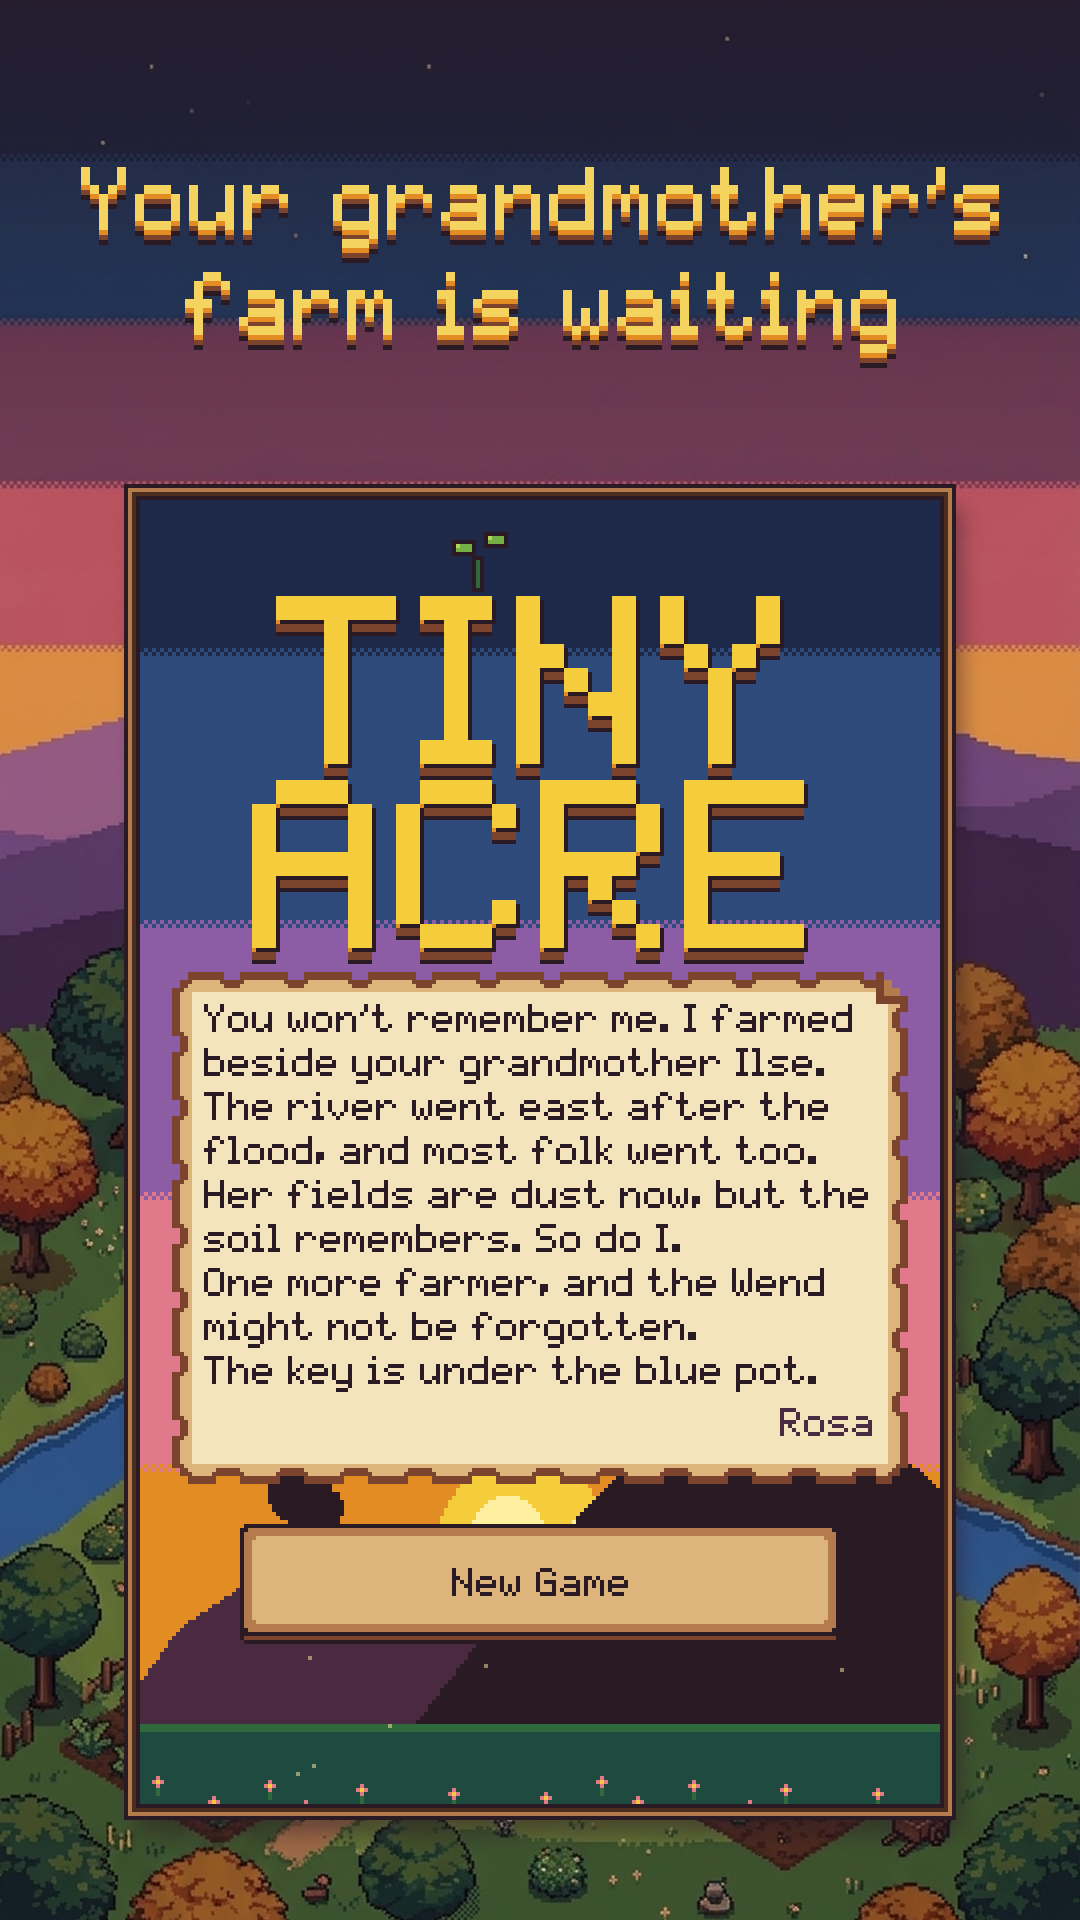
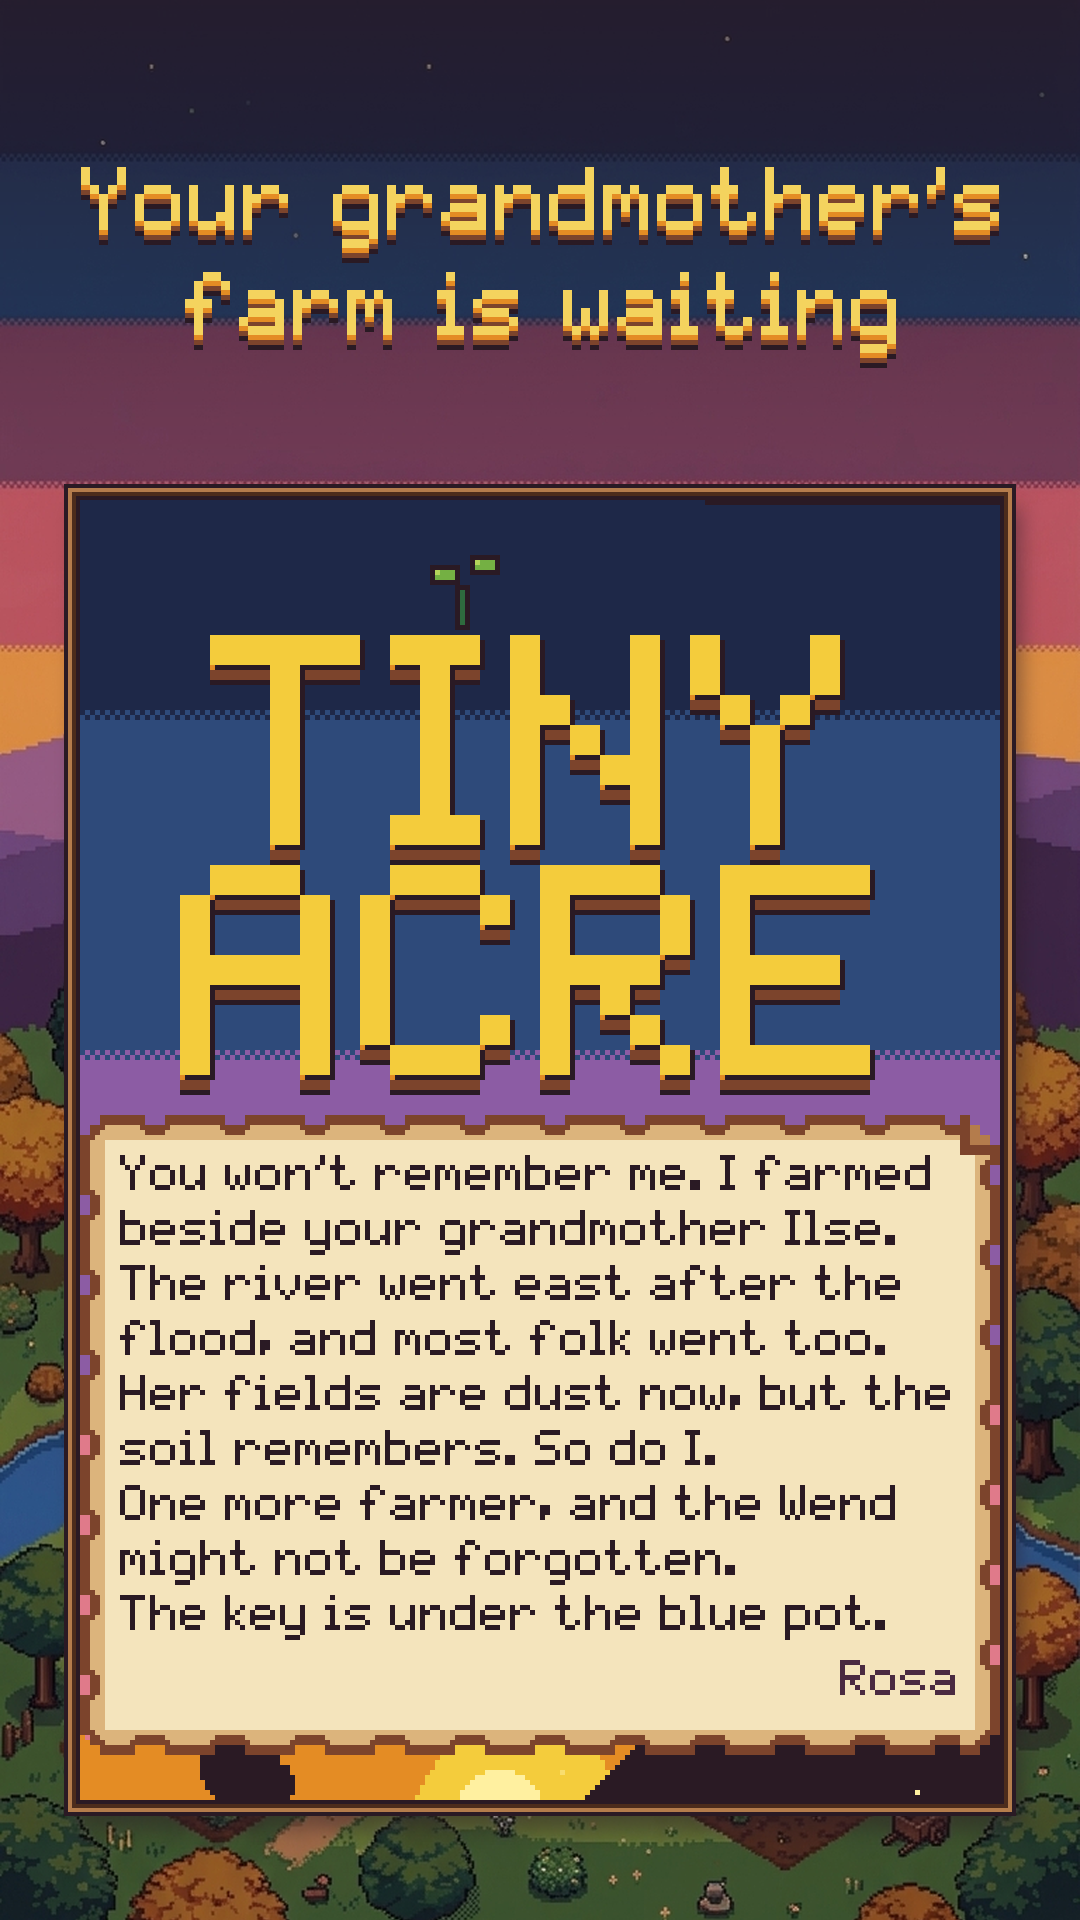
Store set round 3 (critic review 5): captions the panels keep, closer crops, the critic's order
- R1: 03 is the river running through the restored town at golden hour; the families shot is HOME AGAIN with
  Senna at her door; the field is captioned "Your fields, at your own pace".
- R2: the letter and the homecoming at a whole 5x, the scaffold at 8x.
- R3: hero, letter, homecoming, river, field, rebuild, one hand. R4: "house by house".
- The video's family beat is the homecoming with its banner. BRIEF.md and the README follow.

diff --git a/farm-game/art-src/tools/store_art.py b/farm-game/art-src/tools/store_art.py
@@ -33,20 +33,23 @@ CREAM = (244, 234, 210)
 
 # The story set (store/BRIEF.md): the store order, the raw capture(s) each frame uses, and its caption.
 STORY = [
-    ('hero', ('hero-dry', 'hero-green'),
+    ('hero', ('hero-dry', 'hero-green'), None,
      {'en': 'Bring a fading valley back to life', 'pt-BR': 'Faça o vale florescer de novo'}),
-    ('letter', ('letter',),
+    # the logo and the letter at 5x (game px 8-192 x 25-285)
+    ('letter', ('letter-5x',), (40, 125, 960, 1425),
      {'en': "Your grandmother's farm is waiting", 'pt-BR': 'A fazenda da sua avó te espera'}),
-    ('river', ('river-clean',),
-     {'en': 'The river finds its way home', 'pt-BR': 'O rio encontra o caminho de casa'}),
-    ('people', ('people',),
+    # HOME AGAIN, Senna at her door, Mara at the store, at 5x (game px 8-192 x 74-334)
+    ('homecoming', ('homecoming-5x',), (40, 370, 960, 1670),
      {'en': 'Rebuild homes. Welcome families back', 'pt-BR': 'Reerga as casas. Receba quem volta'}),
-    ('cozy', ('cozy',),
-     {'en': 'Grow, cook, fish at your own pace', 'pt-BR': 'Plante, cozinhe e pesque sem pressa'}),
-    ('hand', ('hand',),
+    ('river', ('river-town',), None,
+     {'en': 'The river finds its way home', 'pt-BR': 'O rio encontra o caminho de casa'}),
+    ('field', ('cozy',), None,
+     {'en': 'Your fields, at your own pace', 'pt-BR': 'Sua roça, no seu ritmo'}),
+    # the Marls' house in scaffolding at 8x (game px 75-175 of the world view)
+    ('rebuild', ('rebuild-8x',), (600, 0, 1400, 1304),
+     {'en': 'Rebuild the town, house by house', 'pt-BR': 'Reerga a vila, casa por casa'}),
+    ('hand', ('hand',), None,
      {'en': 'Made for one hand', 'pt-BR': 'Feito para jogar com uma mão'}),
-    ('rebuild', ('rebuild',),
-     {'en': 'Rebuild the town, log by log', 'pt-BR': 'Reerga a vila, tronco a tronco'}),
 ]
 FLOW = os.path.join(os.path.dirname(RAW), 'flow-raw')
 FEATURE = {'en': 'The Dry Year', 'pt-BR': 'O Ano Seco'}
@@ -203,7 +206,7 @@ def fits(text, px, maxw):
 
 def story_px(locale):
     """One caption size for the whole set: the largest that sets every caption in at most two lines."""
-    return next((px for px in (12, 11, 10, 9) if all(fits(c[locale], px, W - 100) for _, _, c in STORY)), 9)
+    return next((px for px in (12, 11, 10, 9) if all(fits(c[locale], px, W - 100) for *_, c in STORY)), 9)
 
 
 def caption(img, text, px):
@@ -286,7 +289,7 @@ def phone(img, screen, at):
     img.paste(screen, (x, y))
 
 
-def story_shot(locale, name, raws, text, px):
+def story_shot(locale, name, raws, crop, text, px):
     img = backdrop()
     caption(img, text, px)
 
@@ -295,8 +298,6 @@ def story_shot(locale, name, raws, text, px):
 
     if name == 'hero':
         framed(img, split(load(raws[0]), load(raws[1])), PANEL_AT)
-    elif name == 'letter':
-        framed(img, load('letter').crop((0, 120, 800, 120 + PANEL[1])), PANEL_AT)
     elif name == 'hand':
         scr = load('hand')
         assert scr.size == (600, 1200), scr.size
@@ -305,7 +306,10 @@ def story_shot(locale, name, raws, text, px):
         # the Action button's centre is about (165, 344) game px: 3x, from the screen's corner
         thumb(img, (at[0] + 165 * 3 + 6, at[1] + 344 * 3 + 30))
     else:
-        framed(img, load(raws[0]), PANEL_AT)
+        panel = load(raws[0])
+        if crop:
+            panel = panel.crop(crop)
+        framed(img, panel, ((W - panel.width) // 2, PANEL_AT[1]))
     return img
 
 
@@ -317,9 +321,9 @@ def shots():
         for f in os.listdir(out):
             os.remove(os.path.join(out, f))
         px = story_px(locale)
-        for i, (name, raws, caps) in enumerate(STORY, 1):
+        for i, (name, raws, crop, caps) in enumerate(STORY, 1):
             p = os.path.join(out, f'{i:02d}-{name}.png')
-            story_shot(locale, name, raws, caps[locale], px).save(p, optimize=True)
+            story_shot(locale, name, raws, crop, caps[locale], px).save(p, optimize=True)
             paths.append(p)
     return paths
 
@@ -370,7 +374,7 @@ def sheet():
     tw, th = 216, 384
     img = Image.new('RGB', (cols * (tw + 8) + 8, 2 * (th + 8) + 8 + 280), INK)
     for r, locale in enumerate(('en', 'pt-BR')):
-        for c, (name, _, _) in enumerate(STORY):
+        for c, (name, *_) in enumerate(STORY):
             s = Image.open(os.path.join(OUT, 'screenshots', locale, f'{c + 1:02d}-{name}.png'))
             img.paste(s.resize((tw, th), Image.LANCZOS), (8 + c * (tw + 8), 8 + r * (th + 8)))
     y = 2 * (th + 8) + 8

diff --git a/farm-game/art-src/tools/store_video.py b/farm-game/art-src/tools/store_video.py
@@ -34,9 +34,9 @@ BEATS = [
     ('green-clean', 0, 104, 'Bring a fading valley back to life', [('green', 0.25)], None),
     ('letter', 0, 89, "Your grandmother's farm is waiting", [], TITLE_CROP),
     ('river-clean', 0, 104, 'The river finds its way home', [('green', 0.2)], None),
-    ('people', 10, 109, 'Rebuild homes. Welcome families back', [('homecoming', 0.3)], None),
-    ('cozy', 10, 95, 'Grow, cook, fish at your own pace', [('swing', 0.33), ('harvest', 0.5)], None),
-    ('fishing', 60, 183, 'Grow, cook, fish at your own pace', [('ui', 0.1), ('harvest', 2.05)], SHEET_CROP),
+    ('senna', 0, 109, 'Rebuild homes. Welcome families back', [('homecoming', 0.0)], (0, 0, 800, 1304)),
+    ('cozy', 10, 95, 'Your fields, at your own pace', [('swing', 0.33), ('harvest', 0.5)], None),
+    ('fishing', 60, 183, 'Your fields, at your own pace', [('ui', 0.1), ('harvest', 2.05)], SHEET_CROP),
 ]
 # SOCIAL=1: the social-media trailer, which opens on an AI-generated (Google Flow, Veo 3.1) shot animated from a real
 # capture of the dry farm (frames in video/frames/veo-intro, 800x1600). Never used in the Play Store video.

diff --git a/farm-game/store/BRIEF.md b/farm-game/store/BRIEF.md
@@ -1,57 +1,70 @@
-# Store creative brief (round 2)
+# Store creative brief (round 3)
 
-**The pitch in one paragraph.** Tiny Acre is a promise of a feeling, not a list of chores: a fading, straw-coloured
-valley turns green again because you came home. The store page tells that as a short story arc. It opens on the
-promise, the same farm parched and then alive. Next comes the reason you're there: a letter from Rosa, your grandmother's friend.
-Then come the moments the valley heals (the river coming home), the people it brings back (Senna on the bank the
-evening her house is lit), and the cozy daily life you can live in five minutes with one thumb. Every frame is real
-gameplay from the build, lit at golden hour or dusk, with the HUD hidden where it adds nothing and the camera close
-enough that the characters read. The frames sit in painted key art in the game's own palette, under one big
-caption that sells an outcome. Towing appears only as an outcome (a house rising, log by log), never as "carry a
-log". Cozy games that sell well on Play (Stardew Valley, Spiritfarer, Cozy Grove, Alba) lead with a world and a
-feeling and let the first two screenshots carry the decision. We follow that structure only and copy none of their
-assets.
+**The pitch in one paragraph.** Tiny Acre sells a feeling, not a list of chores: a fading, straw-coloured valley
+turns green again because you came home. The store page tells that as a short story arc. It opens on the promise:
+the same farm parched, then alive. Next comes the reason you're there, a letter from Rosa, your grandmother's
+friend. After that, the people the valley brings back (Senna home at her door), the river it gets back, and the
+cozy daily life you can live in five minutes with one thumb. Every frame is real gameplay from the build, lit at
+golden hour where the game allows it. The HUD is hidden where it adds nothing, and the camera is close enough that
+the characters read in the Play carousel (5x or 8x on the people shots, always whole pixels). The frames sit in
+painted key art in the game's own palette, each under one big caption that sells an outcome. Towing never appears
+as "carry a log"; the town rises house by house. Cozy games that sell well on Play (Stardew Valley, Spiritfarer,
+Cozy Grove, Alba) lead with a world and a feeling and let the first two screenshots carry the decision. We follow
+that structure only and copy none of their assets.
 
 ## Screenshot arc and captions
 
-Captions run 3-6 words, sell feelings and outcomes, and use no chore verbs. The pt-BR captions are written to read
-naturally in Brazilian Portuguese, not translated word by word.
+Captions are 3-6 words. They sell feelings and outcomes, never chores, and every one promises only what its panel
+shows. The pt-BR captions are written to read naturally, not translated word by word.
 
-| #   | Moment (scenario)                                                                                                                                 | en                                   | pt-BR                               |
-| --- | ------------------------------------------------------------------------------------------------------------------------------------------------- | ------------------------------------ | ----------------------------------- |
-| 1   | Hero: the same farm parched at midday and green at golden hour, split by the game's dithered reveal edge (`farm-variant-dry`, `store-full-field`) | Bring a fading valley back to life   | Faça o vale florescer de novo       |
-| 2   | The call: Rosa's letter on the title, at a first launch (`title-first-launch`)                                                                    | Your grandmother's farm is waiting   | A fazenda da sua avó te espera      |
-| 3   | The transformation: the dry town dissolving into the river town the morning the weir opens (`river-first-morning`)                                | The river finds its way home         | O rio encontra o caminho de casa    |
-| 4   | People: dusk the first evening Senna is home, on the riverbank by the turning wheel, the lamps lit (`marls-home`)                                 | Rebuild homes. Welcome families back | Reerga as casas. Receba quem volta  |
-| 5   | Cozy life: a full field at golden hour (`store-full-field`)                                                                                       | Grow, cook, fish at your own pace    | Plante, cozinhe e pesque sem pressa |
-| 6   | One hand: the full screen, HUD and thumb controls, held in one hand (`store-full-field`)                                                          | Made for one hand                    | Feito para jogar com uma mão        |
-| 7   | Outcome: the Marls' house rising in scaffolding (`tow-house-marls`)                                                                               | Rebuild the town, log by log         | Reerga a vila, tronco a tronco      |
+1. **Hero.** The same farm parched at midday and green at golden hour, split by the game's dithered reveal edge
+   (`farm-variant-dry`, `store-full-field`).
+   - en: Bring a fading valley back to life
+   - pt-BR: Faça o vale florescer de novo
+2. **The call.** The logo and Rosa's letter at 5x, at a first launch (`title-first-launch`).
+   - en: Your grandmother's farm is waiting
+   - pt-BR: A fazenda da sua avó te espera
+3. **People.** HOME AGAIN, with Senna at her door the morning she comes home, at 5x (`marls-arrive`).
+   - en: Rebuild homes. Welcome families back
+   - pt-BR: Reerga as casas. Receba quem volta
+4. **The river.** The river running through the restored town at golden hour, the Heron afloat (`weir-opened-town`).
+   - en: The river finds its way home
+   - pt-BR: O rio encontra o caminho de casa
+5. **Cozy life.** A full field at golden hour (`store-full-field`).
+   - en: Your fields, at your own pace
+   - pt-BR: Sua roça, no seu ritmo
+6. **The town rising.** The Marls' house in scaffolding, at 8x (`tow-house-marls`).
+   - en: Rebuild the town, house by house
+   - pt-BR: Reerga a vila, casa por casa
+7. **One hand.** The full screen, HUD and thumb controls, held in one hand (`store-full-field`).
+   - en: Made for one hand
+   - pt-BR: Feito para jogar com uma mão
 
 ## Look
 
-- Light: golden hour (18:30-19:45) for the farm, dusk for the town. Every grade is the game's own day tint and night
-  glow; no colour grading is added on top.
-- Frame: each gameplay frame sits at an exact 4x inside a wood-rimmed frame, over painted key art made with Google
-  Flow (Nano Banana) from real screenshots, so the palette and pixel style match. The key art is atmosphere only:
-  everything inside the frame is captured gameplay.
-- Captions: the game's own 5x7 pixel font, carved like the title logo, large enough to read at thumbnail size.
-- Feature graphic: one evocative image, the valley half straw and half green under a dusk sky, with the TINY ACRE
-  logo set in the game's font (no AI-drawn text).
+- **Light:** golden hour (18:30-19:45) on the farm and the river. The grade is the game's own day tint and night
+  glow. Nothing is colour graded on top.
+- **Frame:** each gameplay frame sits at a whole 4x, 5x or 8x inside a wood-rimmed frame, over painted key art made
+  with Google Flow (Nano Banana) from real screenshots, so the palette and the pixel style match. The key art is
+  atmosphere only; everything inside the frame is captured gameplay.
+- **Captions:** the game's own 5x7 pixel font, carved like the title logo, large enough to read at thumbnail size.
+- **Feature graphic:** one evocative image, the valley half straw and half green under a dusk sky, with the TINY
+  ACRE logo set in the game's font. No text is drawn by AI.
 
-## Video arc (26-30 s, portrait)
+## Video arc (about 22 s, portrait)
 
-1. 0-3 s, the hook: straw turning to green outward from the farmer (FIRST GREEN), with the hero caption.
+1. 0-3 s, the hook: straw turns to green outward from the farmer (FIRST GREEN).
 2. Rosa's letter.
 3. The valley healing: the river comes home.
-4. A family returns: Senna home, the house lit at dusk.
-5. Cozy life: the harvest at golden hour and the reel at the river.
+4. A family returns: HOME AGAIN, Senna at her door.
+5. Cozy life: the harvest at golden hour and a catch at the river.
 6. Title card: TINY ACRE, The Dry Year.
 
 ## Honesty rules
 
-- Real gameplay is in every screenshot and dominates the store video. Flow art is atmosphere only and never shows a
-  feature, place or character the build doesn't have.
-- Privacy wording stays as the critic set it: the game saves on the device, with optional cloud backup through Google Play
-  Games, and the gameplay statistics can be turned off.
-- Play note: games need landscape screenshots to appear in some game collections on Play. Tiny Acre is portrait
-  only, so the set is portrait. A landscape set from the wide captures is an option for later.
+- Real gameplay is in every screenshot and dominates the store video. Flow art is atmosphere only. It never shows a
+  feature, a place or a character that the build doesn't have.
+- **Privacy wording:** the game saves on the device, with optional cloud backup through Google Play Games, and the
+  gameplay statistics can be turned off. This wording is the critic's and stays as written.
+- **Orientation:** games need landscape screenshots to appear in some game collections on Play. Tiny Acre is
+  portrait only, so the set is portrait. A landscape set built from the wide captures is an option for later.

diff --git a/farm-game/store/README.md b/farm-game/store/README.md
@@ -8,10 +8,10 @@ Everything the Play Console listing needs, except the video (Play takes a YouTub
 | Feature graphic   | `play/feature-graphic.png` (en), `play/feature-graphic.pt-BR.png`                       | 1024x500, 24-bit PNG, no alpha; Flow key art with the logo in the game's font, text inside the central area                                    |
 | Phone screenshots | `play/screenshots/en/01..07-*.png`, `play/screenshots/pt-BR/01..07-*.png`               | 1080x1920 (9:16), real gameplay framed over a Flow backdrop, big caption                                                                       |
 | Listing text      | `listing.en.md`, `listing.pt-BR.md`                                                     | app name, short and full description, what's new, category and tags                                                                            |
-| Promo video       | outside the repo: `C:/Users/andre/dev/tiny-acre/marketing/video/tiny-acre-promo-en.mp4` | 1080x1920, 30 fps, H.264 + AAC, 21.5 s, gameplay over the Flow backdrop                                                                        |
+| Promo video       | outside the repo: `C:/Users/andre/dev/tiny-acre/marketing/video/tiny-acre-promo-en.mp4` | 1080x1920, 30 fps, H.264 + AAC, 22 s, gameplay over the Flow backdrop                                                                          |
 
-Screenshot order (the story arc in `BRIEF.md`): the hero before/after, Rosa's letter, the river coming home, Senna at
-dusk, cozy life at golden hour, one hand, the town rising.
+Screenshot order (the story arc in `BRIEF.md`): the hero before/after, Rosa's letter, Senna's homecoming, the river
+through town, a golden field, the town rising, one hand.
 
 ## Rebuild
 
